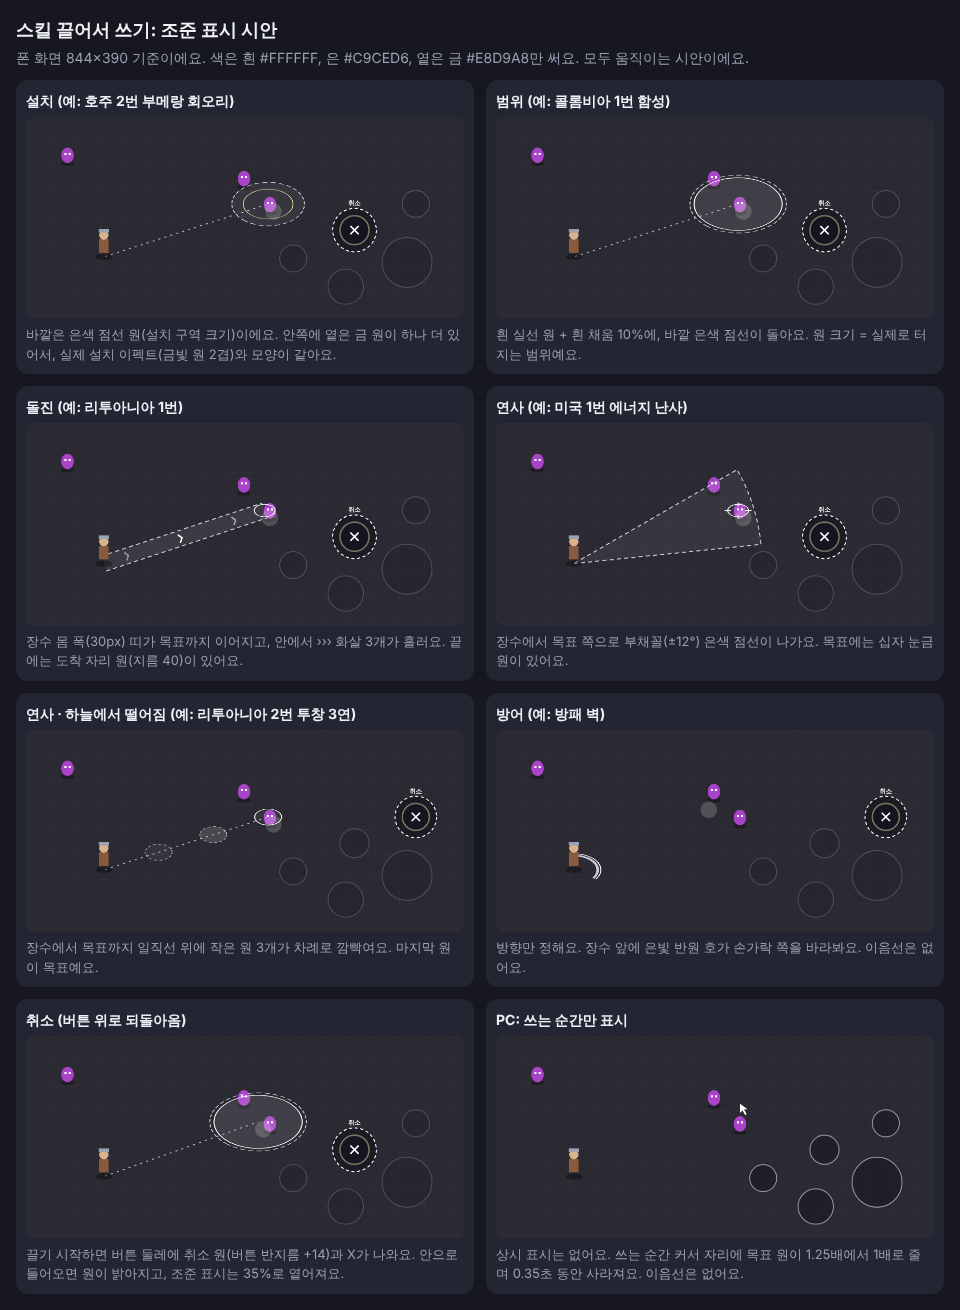
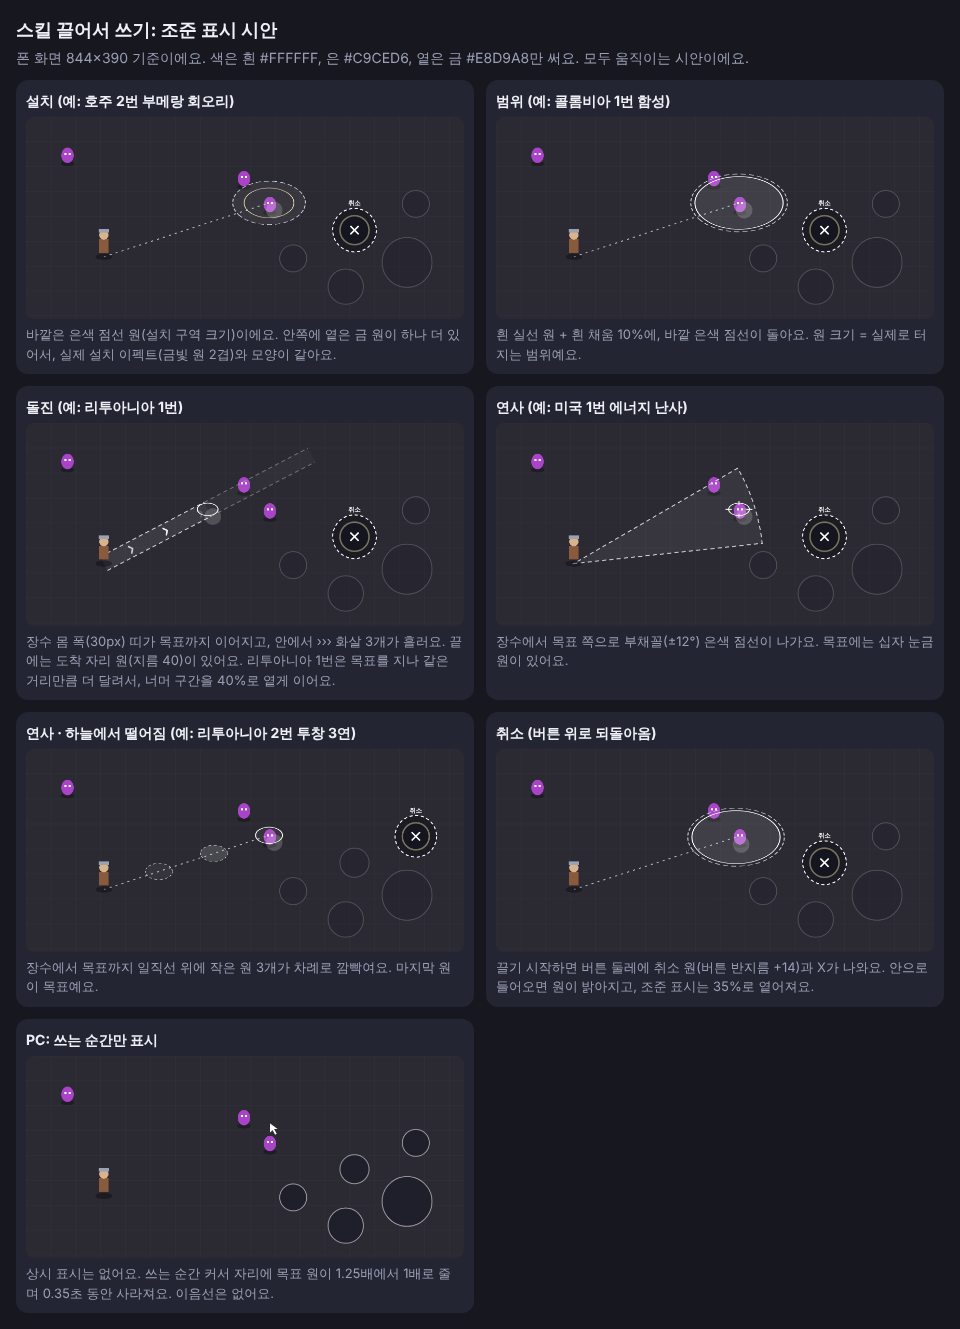
[디자인팀] 스킬 조준 표시 확정: 방어 칸 삭제, 리투아니아 1번 돌진 너머 띠 추가
Claude-Session: https://claude.ai/code/session_013M9CK1DXpnv28ZtJdsmhuH

diff --git a/teams/2-디자인/preview/skill-aim.html b/teams/2-디자인/preview/skill-aim.html
@@ -19,10 +19,10 @@ const BTN={melee:[.87,.72,48],ranged:[.73,.84,34],skill:[.75,.56,28],skill2:[.89
 const PANELS=[
  ['설치 (예: 호주 2번 부메랑 회오리)','바깥은 은색 점선 원(설치 구역 크기)이에요. 안쪽에 옅은 금 원이 하나 더 있어서, 실제 설치 이펙트(금빛 원 2겹)와 모양이 같아요.','zone'],
  ['범위 (예: 콜롬비아 1번 함성)','흰 실선 원 + 흰 채움 10%에, 바깥 은색 점선이 돌아요. 원 크기 = 실제로 터지는 범위예요.','area'],
- ['돌진 (예: 리투아니아 1번)','장수 몸 폭(30px) 띠가 목표까지 이어지고, 안에서 ››› 화살 3개가 흘러요. 끝에는 도착 자리 원(지름 40)이 있어요.','dash'],
+ ['돌진 (예: 리투아니아 1번)','장수 몸 폭(30px) 띠가 목표까지 이어지고, 안에서 ››› 화살 3개가 흘러요. 끝에는 도착 자리 원(지름 40)이 있어요. 리투아니아 1번은 목표를 지나 같은 거리만큼 더 달려서, 너머 구간을 40%로 옅게 이어요.','dash'],
  ['연사 (예: 미국 1번 에너지 난사)','장수에서 목표 쪽으로 부채꼴(±12°) 은색 점선이 나가요. 목표에는 십자 눈금 원이 있어요.','barrage'],
  ['연사 · 하늘에서 떨어짐 (예: 리투아니아 2번 투창 3연)','장수에서 목표까지 일직선 위에 작은 원 3개가 차례로 깜빡여요. 마지막 원이 목표예요.','rain'],
- ['방어 (예: 방패 벽)','방향만 정해요. 장수 앞에 은빛 반원 호가 손가락 쪽을 바라봐요. 이음선은 없어요.','guard'],
+ 
  ['취소 (버튼 위로 되돌아옴)','끌기 시작하면 버튼 둘레에 취소 원(버튼 반지름 +14)과 X가 나와요. 안으로 들어오면 원이 밝아지고, 조준 표시는 35%로 옅어져요.','cancel'],
  ['PC: 쓰는 순간만 표시','상시 표시는 없어요. 쓰는 순간 커서 자리에 목표 원이 1.25배에서 1배로 줄며 0.35초 동안 사라져요. 이음선은 없어요.','pc'],
 ];
@@ -42,7 +42,7 @@ function finger(x,fx,fy){x.fillStyle='rgba(255,255,255,.18)';x.beginPath();x.arc
 function target(type,x,hx,hy,tx,ty,t,alpha){x.save();x.globalAlpha=alpha;const rot=t*Math.PI*.5;
  if(type==='zone'){fill(x,tx,ty,70,.06);ring(x,tx,ty,70,SV,2,[10,6],rot);ring(x,tx,ty,48,GD,1.5);link(x,hx,hy,tx,ty,t)}
  if(type==='area'){fill(x,tx,ty,85,.10);ring(x,tx,ty,85,WH,2);ring(x,tx,ty,93,SV,2,[10,6],rot);link(x,hx,hy,tx,ty,t)}
- if(type==='dash'){const a=Math.atan2(ty-hy,tx-hx),L=Math.hypot(tx-hx,ty-hy);x.save();x.translate(hx,hy);x.rotate(a);
+ if(type==='dash'){const a=Math.atan2(ty-hy,tx-hx),L=Math.hypot(tx-hx,ty-hy);x.save();x.translate(hx,hy);x.rotate(a);x.save();x.globalAlpha=alpha*.4;x.fillStyle='rgba(255,255,255,.08)';x.fillRect(L,-15,L,30);x.setLineDash([8,6]);x.strokeStyle=SV;x.lineWidth=2;x.beginPath();x.moveTo(L,-15);x.lineTo(2*L,-15);x.moveTo(L,15);x.lineTo(2*L,15);x.stroke();x.restore();
   x.fillStyle='rgba(255,255,255,.08)';x.fillRect(0,-15,L,30);x.setLineDash([8,6]);x.strokeStyle=SV;x.lineWidth=2;
   x.beginPath();x.moveTo(0,-15);x.lineTo(L,-15);x.moveTo(0,15);x.lineTo(L,15);x.stroke();x.setLineDash([]);
   x.strokeStyle=WH;x.lineWidth=3;for(let i=0;i<3;i++){const p=((t*.8+i/3)%1)*L;x.globalAlpha=alpha*Math.sin(Math.PI*p/L);x.beginPath();x.moveTo(p-6,-8);x.lineTo(p,0);x.lineTo(p-6,8);x.stroke()}
@@ -71,7 +71,7 @@ PANELS.forEach(([title,desc,type])=>{const d=document.createElement('div');d.cla
    x.fillStyle=WH;x.beginPath();x.moveTo(tx+40,ty-30);x.lineTo(tx+40,ty-12);x.lineTo(tx+45,ty-17);x.lineTo(tx+50,ty-8);x.lineTo(tx+53,ty-10);x.lineTo(tx+48,ty-19);x.lineTo(tx+55,ty-19);x.closePath();x.fill();
   }else if(type==='cancel'){const [u,v]=BTN.skill,bx=u*W,by=v*H,k=(Math.sin(t*1.5)+1)/2,fx=bx+(430-bx)*k,fy=by+(160-by)*k,inside=Math.hypot(fx-bx,fy-by)<42;
    target('area',x,hx,hy,fx,fy,t,inside?.35:1);hero(x,hx,hy);buttons(x,'skill',true);cancelZone(x,'skill',inside);finger(x,fx,fy);
-  }else{const tx=type==='dash'?430+Math.sin(t)*30:type==='guard'?400:430+Math.sin(t*.8)*40,ty=type==='guard'?140:160+Math.cos(t*.8)*20;
+  }else{const tx=type==='dash'?330+Math.sin(t)*20:type==='guard'?400:430+Math.sin(t*.8)*40,ty=type==='guard'?140:160+Math.cos(t*.8)*20;
    target(type,x,hx,hy,tx,ty,t,1);hero(x,hx,hy);buttons(x,btn,true);cancelZone(x,btn,false);finger(x,tx,ty)}
   requestAnimationFrame(f)})(0)});
 </script></body></html>

diff --git a/teams/2-디자인/style-guide.md b/teams/2-디자인/style-guide.md
@@ -316,7 +316,7 @@
 ## 소리
 - `sound.draft.md`를 따라요 (Web Audio, 파일 0KB). 그림이 진지한 판타지로 바뀌어서, 나중에 공격음을 "뿅"보다 **칼·금속 느낌**으로 바꾸자고 제안해요.
 
-## 스킬 끌어서 쓰기 — 조준 표시 (GDD 0-17 · 2026-11-25 디자인팀 안, 사용자 확인 대기)
+## 스킬 끌어서 쓰기 — 조준 표시 (GDD 0-17 · ✅ 확정 2026-11-25 사용자 "이대로")
 시안: `teams/2-디자인/preview/skill-aim.html` (움직이는 시안) · `skill-aim.png` (한 장). 색은 **흰 `#FFFFFF` · 은 `#C9CED6` · 옅은 금 `#E8D9A8`**만 써요. 거리 제한은 없어요(화면 어디든).
 
 ### 공통
@@ -328,14 +328,14 @@
 - 조준 표시는 외계인·장수보다 아래(바닥 층)에 그려요. 캐릭터를 가리지 않아요.
 
 ### 유형별 모양
+- 방어 유형은 없어요(GDD 0-15, 스킬 60개 중 방어 0개).
 | 유형 | 조준 표시 |
 |---|---|
 | 설치 | 은색 점선 원(설치 구역 크기) + 안쪽 옅은 금 실선 원(반지름 ×0.7) + 흰 채움 6%. 설치 이펙트(금빛 원 2겹)와 같은 모양 + 이음선 |
 | 범위 | 흰 실선 원(터지는 범위) + 흰 채움 10% + 바깥 은색 점선 원(반지름 +8) + 이음선. 반원(룩셈부르크 2번)·직사각형(그리스 1번)은 그 모양 테두리 |
-| 돌진 | 이음선 대신 **장수 몸 폭 30px 띠**(흰 채움 8%, 양옆 은색 점선) + 안에서 흐르는 흰 `›` 3개 + 끝에 도착 원(지름 40, 흰 실선) |
+| 돌진 | 이음선 대신 **장수 몸 폭 30px 띠**(흰 채움 8%, 양옆 은색 점선) + 안에서 흐르는 흰 `›` 3개 + 끝에 도착 원(지름 40, 흰 실선). **리투아니아 1번**(목표를 지나 같은 거리만큼 더 달림): 목표 원은 그대로 두고, 띠가 목표 너머 같은 거리까지 이어지되 너머 구간은 **투명도 40%**로 옅게 |
 | 연사 (쏘기) | 장수에서 목표 쪽 **부채꼴 ±12°**(흰 채움 6%, 은색 점선 테두리) + 목표에 십자 눈금 원(지름 40) |
 | 연사 (하늘에서 떨어짐: 화살비·투석·투창 3연) | 떨어지는 자리에 원. 투창 3연은 일직선 위 작은 원 3개(지름 52)가 차례로 깜빡이고, 마지막 원(흰 실선)이 목표예요 + 이음선 |
-| 방어 | 방향만 정해요. 장수 앞 **은빛 반원 호**(굵기 5 + 바깥 흰 2px)가 손가락 쪽을 봐요. 이음선 없음 |
 | 예외: 튀르키예 1번 | 자리 지정 없음 → 장수 발밑 흰 원만 표시 |
 
 ### 폰 취소 영역

diff --git a/teams/2-디자인/작업기록.md b/teams/2-디자인/작업기록.md
@@ -105,3 +105,6 @@
 - 개발팀에 전달(STATUS 인수인계 + 개발 세션 메시지). 검기 wave.webp 보정도 같이 알림.
 - 다음: 30개 나라 공격 모션을 실제 게임에서 돌려 보고 어색한 것 목록 뽑기.
 - 개발팀 반영 03d0389 대조: data.js usa·finland 'thrust', GUN_REST 0.175(10°), 반동 3px·0.06초 코드 확인, 캡처(review-4/u6-gun-motion.png)에서 쉬기·쏘기·찌르기 모두 총 수평 확인 → 통과.
+
+## 2026-11-25 (스킬 조준 표시)
+- GDD 0-17 '스킬 끌어서 쓰기' 조준 표시 안 작성(2a8b370) → 사용자 확정("이대로"). 방어 유형 칸 삭제(GDD 0-15로 방어 스킬 없음). 리투아니아 1번은 돌진 띠가 목표 너머까지 옅게(40%) 이어짐 추가. 시안 `preview/skill-aim.html`·`skill-aim.png`.
